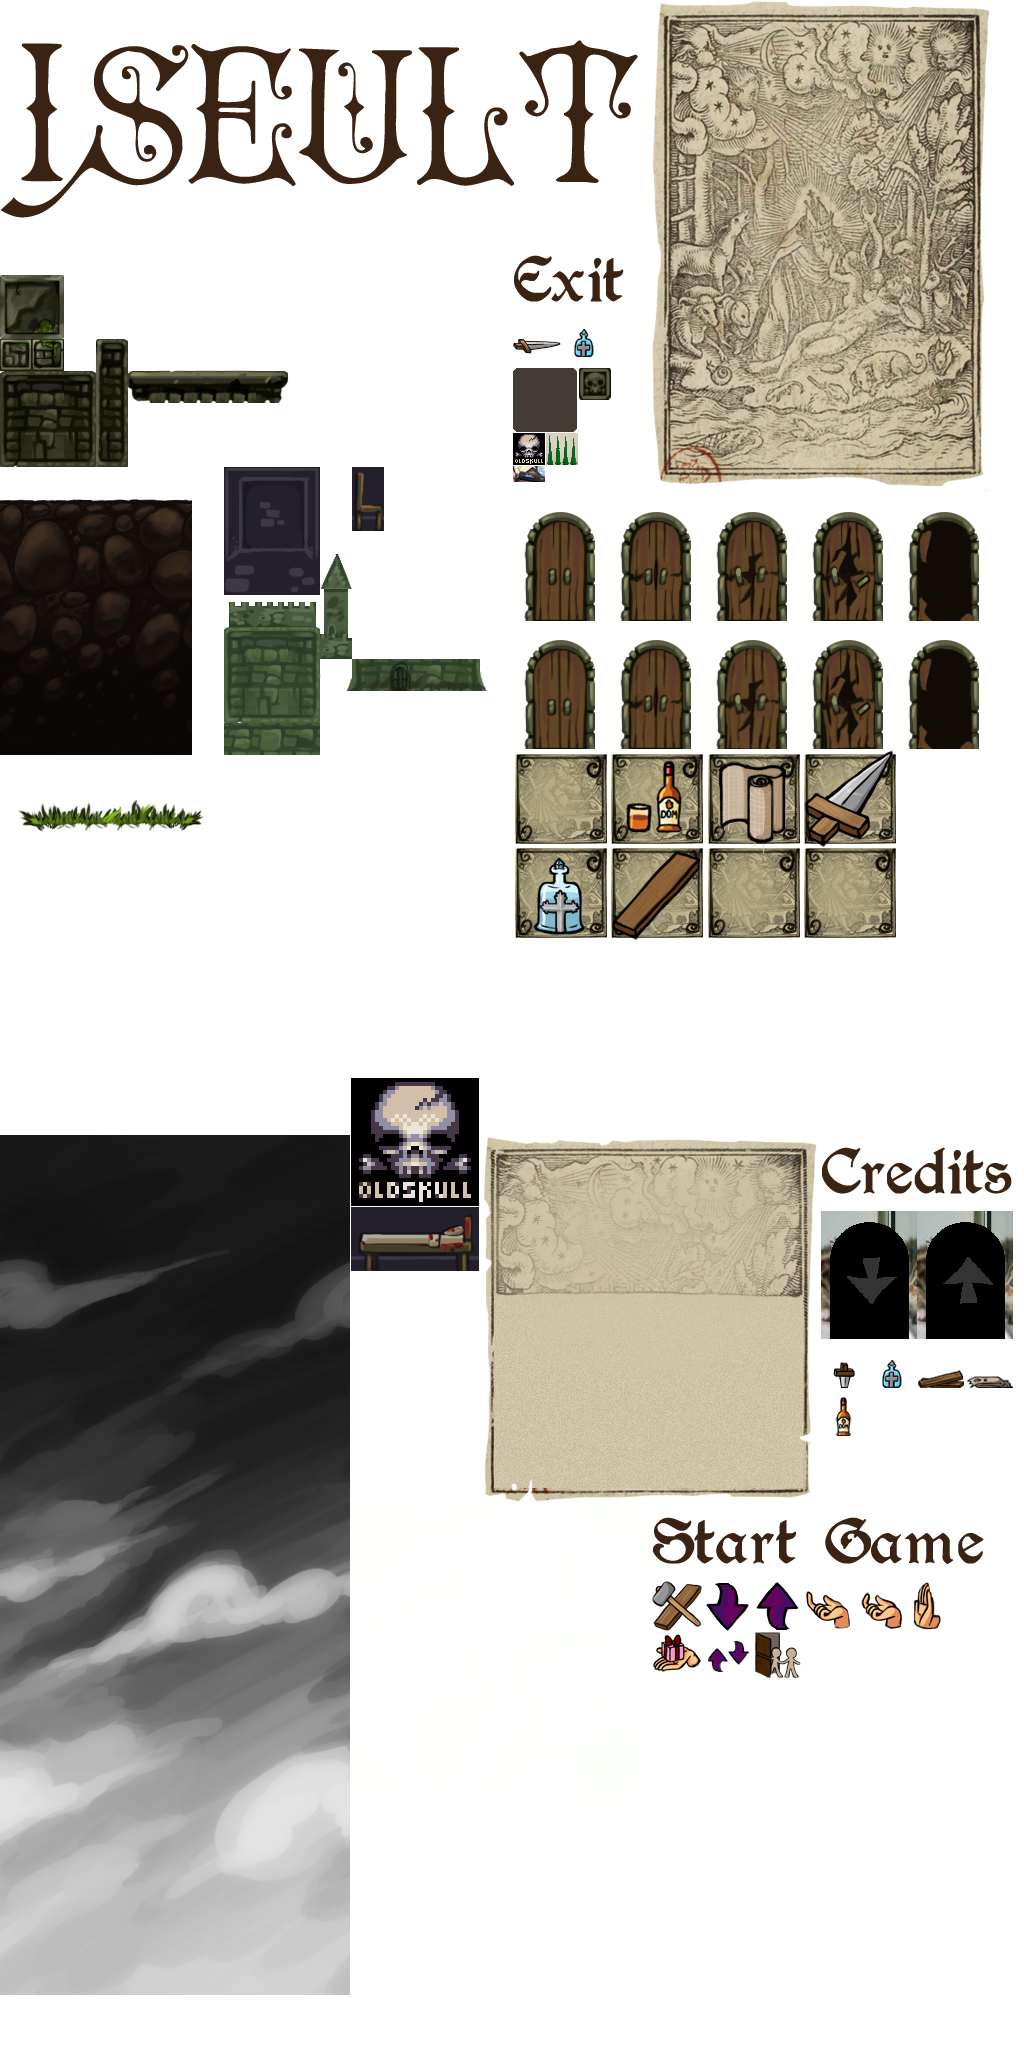
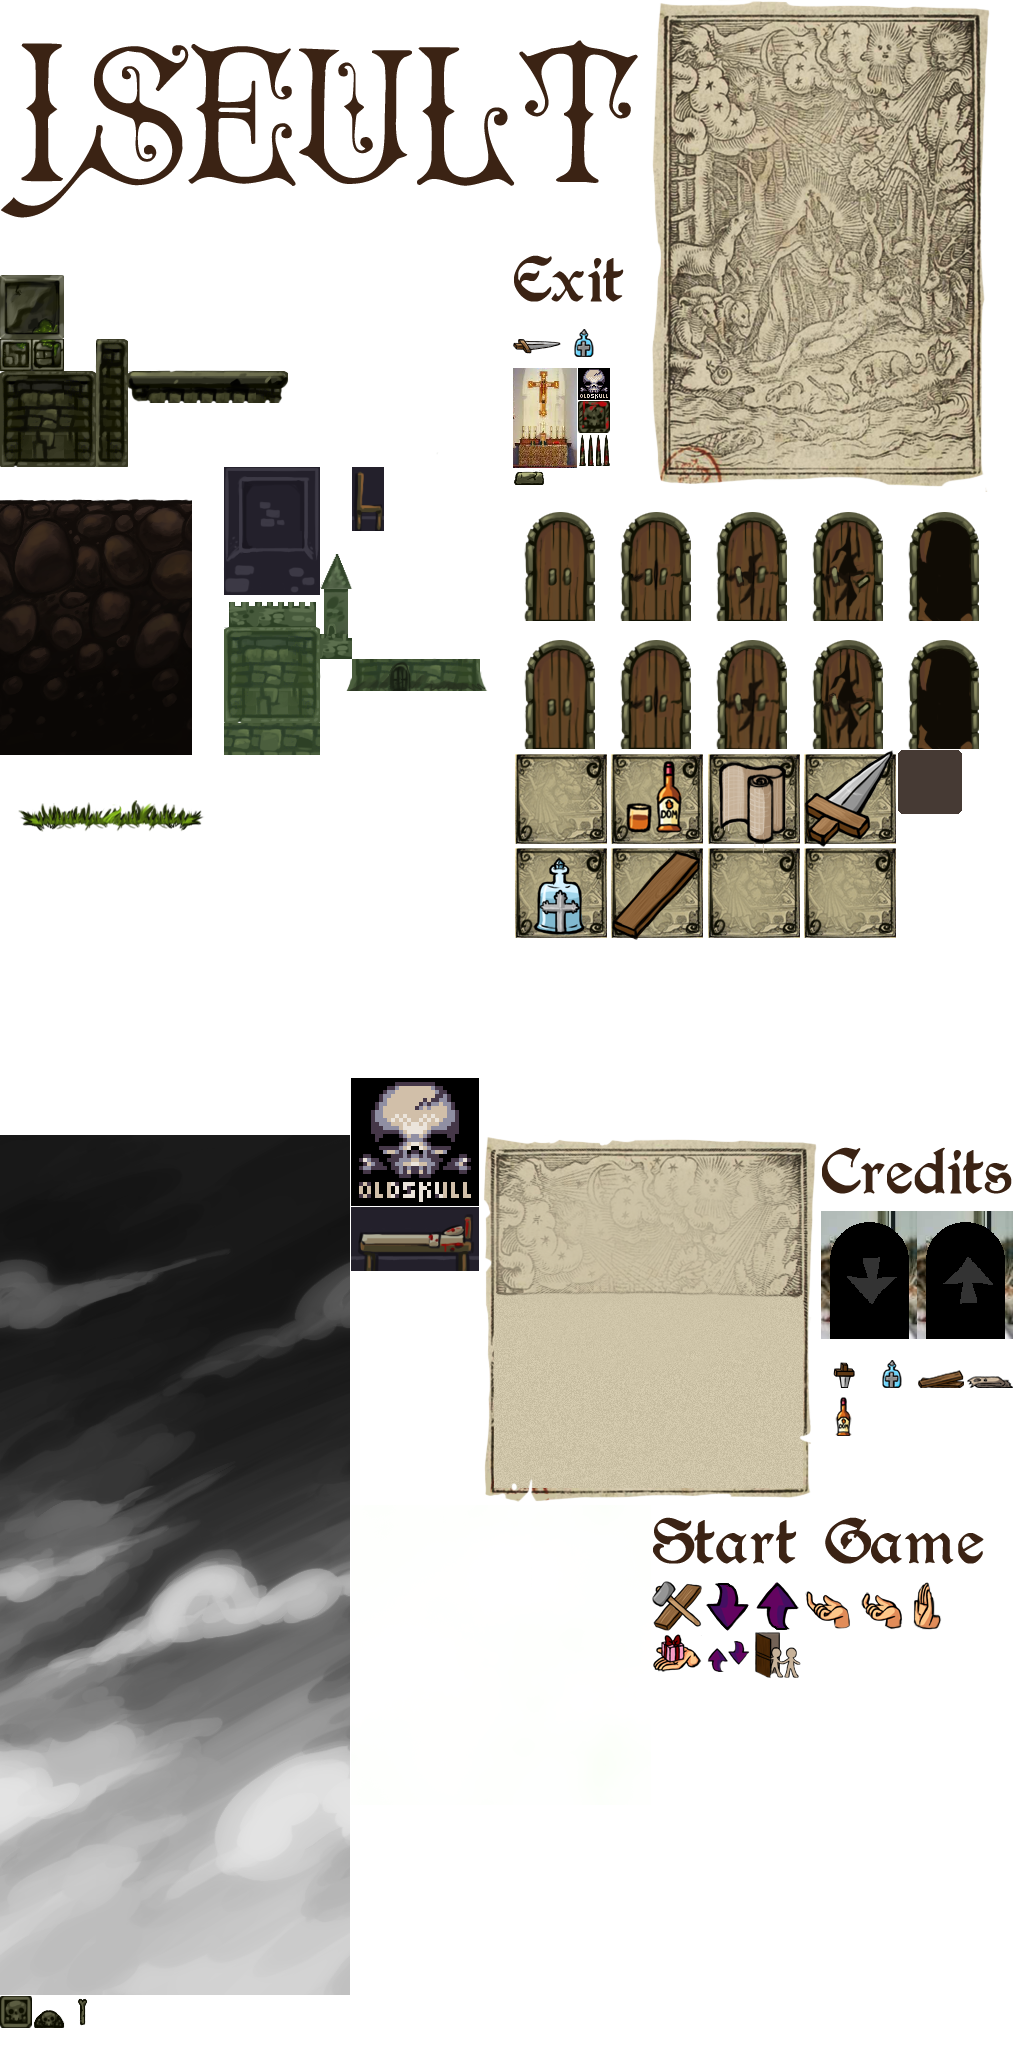
Grieving and deaths

Changed region(s): [[0.5, 0.1562, 0.5938, 0.25], [0.875, 0.3438, 0.9375, 0.4062], [0.0, 0.9688, 0.0625, 1.0]]

diff --git a/Iseult/Castle/characters/Mordecai.cs b/Iseult/Castle/characters/Mordecai.cs
@@ -32,6 +32,7 @@ namespace Iseult
         private bool Blocked=false;
         private int MAX_INTEREST = 60;
         private float Acceleration = .5f;
+        private bool Alive;
 
         public Mordecai(Vector2 Position)
             :base(Position, new Vector2(32,64))
@@ -54,23 +55,39 @@ namespace Iseult
         {
             base.Added();
             CurrentOn = Level.Name.ToUpper();
+            Alive = true;
         }
 
         public override void Step()
         {
             base.Step();
 
-            if (Wandering > 0)
+            if (Alive)
             {
-                Speed.X = WanderingSide * Acceleration*1.5f;
-                Image.Play("walk");
-                Wandering--;
-                Image.Effects = WanderingSide == -1 ? SpriteEffects.FlipHorizontally : SpriteEffects.None;
-            } else if (Image.CurrentAnimID != "climb")
+                if (Wandering > 0)
+                {
+                    Speed.X = WanderingSide * Acceleration * 1.5f;
+                    Image.Play("walk");
+                    Wandering--;
+                    Image.Effects = WanderingSide == -1 ? SpriteEffects.FlipHorizontally : SpriteEffects.None;
+                }
+                else if (Image.CurrentAnimID != "climb")
+                {
+                    CheckForDoors();
+                    SearchForIseult();
+                    FollowTarget();
+                }
+
+                checkForHazards();
+            }
+        }
+
+        private void checkForHazards()
+        {
+            Entity e = Level.CollideFirst(Collider.Bounds, GameTags.Enemy);
+            if (e != null)
             {
-                CheckForDoors();
-                SearchForIseult();
-                FollowTarget();
+                OnDeath();
             }
         }
 
@@ -199,6 +216,28 @@ namespace Iseult
         internal bool isFollowing(PlatformLevelEntity entity)
         {
             return Target == entity;
+        }
+
+        public override void OnCrush(Solid by)
+        {
+            base.OnCrush(by);
+            OnDeath();
+        }
+
+        private void OnDeath()
+        {
+            if (Alive)
+            {
+                PlayAnim("death");
+                Alive = false;
+                Player.OnGrieve();
+            }
+        }
+
+        internal void OnGrieve()
+        {
+            PlayAnim("grieve");
+            Alive = false;
         }
     }
 }

diff --git a/Iseult/Castle/Spikes.cs b/Iseult/Castle/Spikes.cs
@@ -11,19 +11,21 @@ namespace Iseult.Castle
     public class Spikes:PlatformLevelEntity,Mechanical
     {
         private int Timer=10;
-        private Vector2 Original;
         private int id;
         private bool Working;
+        private Image SpikeImage;
 
         public Spikes(Vector2 Position, bool invert, int id)
             : base(0)
         {
             Working = !invert;
             this.id = id;
-            this.Position = Original = Position;
-            this.Position.Y += 32;
-            Image Image = new Image(IseultGame.Atlas["environment/spikes"]);
-            Add(Image);
+            this.Position = Position;
+            SpikeImage = new Image(IseultGame.Atlas["environment/spikes"]);
+            Add(SpikeImage);
+            Image box = new Image(IseultGame.Atlas["environment/spikesBox"]);
+            box.Y = 32;
+            Add(box);
 
             Collider = new Hitbox(32, 32);
             Tag(new GameTags[] { GameTags.Enemy, GameTags.Mechanical });
@@ -47,17 +49,17 @@ namespace Iseult.Castle
                 if (Timer == 0)
                 {
                     Tween goUp = new Tween(Tween.TweenMode.Oneshot,Ease.BackInOut,10,true);
-                    Vector2 StartPosition = Position;
+                    Vector2 StartPosition = SpikeImage.Position;
 
-                    goUp.OnUpdate = (t) => { 
-                        Position = Vector2.Lerp(StartPosition, Original, t.Eased);
+                    goUp.OnUpdate = (t) => {
+                        SpikeImage.Position = Vector2.Lerp(StartPosition, Vector2.Zero, t.Eased);
                         if (t.Percent > 0.4f)
                             Collidable = true;
                     };
 
                     goUp.OnComplete = (t) =>
                     {    
-                        Tween.Position(this, Original + new Vector2(0, 32), 50, Ease.BackInOut);
+                        Tween.Position(SpikeImage, new Vector2(0, 32), 50, Ease.BackInOut);
                         Collidable=false;
                         Timer = 50;   
                     };

diff --git a/Iseult/Castle/characters/IseultPlayer.cs b/Iseult/Castle/characters/IseultPlayer.cs
@@ -24,6 +24,7 @@ namespace Iseult
         private Collectible SelectedItem;
         public List<Enemy> TailedBy;
         private bool Wait;
+        private bool Alive;
 
         public static Collectible Carrying { get; private set; }
 
@@ -48,6 +49,7 @@ namespace Iseult
             TailedBy = new List<Enemy>();
 
             Depth = -10;
+            Alive = true;
         }
         
         protected override void UpdateColisions()
@@ -118,14 +120,23 @@ namespace Iseult
 
         }
 
-        private static void OnTakeHit()
+        private void OnTakeHit()
         {
+            if (Alive)
+            {
+                Alive = false;
+                PlayAnim("death");
+                Wait = true;
+                Speed = Vector2.Zero;
+                Mordecai.Instance.OnGrieve();
+            }
+            /*
             Engine.Instance.Scene = new GameOver();
             IseultGame.Stats.AddStats("hp", -1);
             if (IseultGame.Stats.GetStats("hp") <= 0)
             {
                 Engine.Instance.Scene = new GameOver();
-            }
+            }*/
         }
 
         protected override void OnCrouching()
@@ -163,18 +174,11 @@ namespace Iseult
         public override void Step()
         {
             base.Step();
-
-            if (KeyboardInput.pressedInput("use")) OnUse();
-
-            if (IseultGame.Stats.GetStats("hp") <= 0)
+            if (Alive)
             {
-                RemoveSelf();
-            }
-            else
-            {
+                if (KeyboardInput.pressedInput("use")) OnUse();
                 AliveTime++;
             }
-
         }
 
         private void OnUse()
@@ -292,6 +296,12 @@ namespace Iseult
         {
             base.OnCrush(by);
             OnTakeHit();
+        }
+
+        internal void OnGrieve()
+        {
+            PlayAnim("grieve");
+            Wait = true;
         }
     }
 }

diff --git a/Iseult/Castle/MovingBlock.cs b/Iseult/Castle/MovingBlock.cs
@@ -58,8 +58,8 @@ namespace Iseult.Castle
                     PlatformerObject p = (PlatformerObject)e;
                     if (p.IsRiding(this))
                     {
-                        p.MoveExactH(moveH);
-                        p.MoveExactV(moveV);
+                        p.MoveH(moveH);
+                        p.MoveV(moveV);
                     }
                 }
             }
